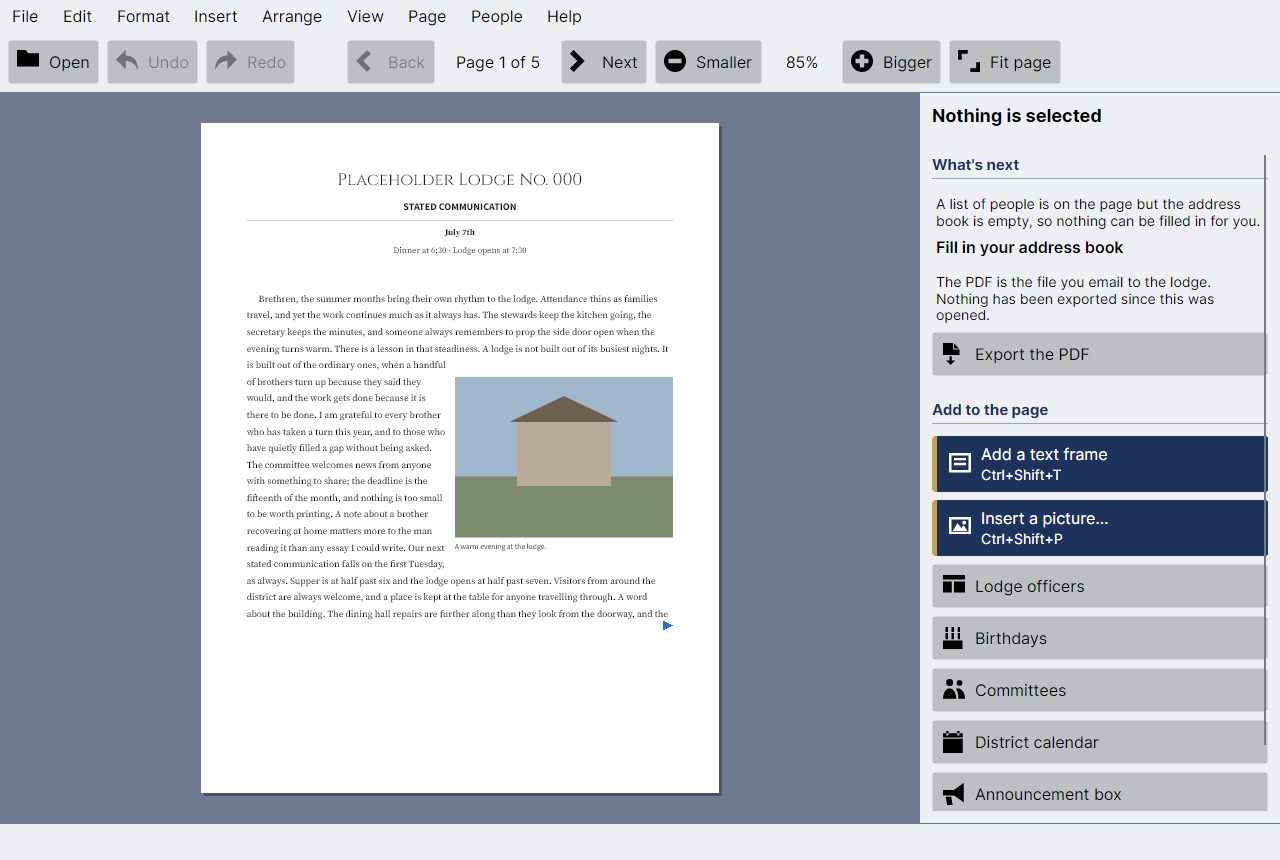
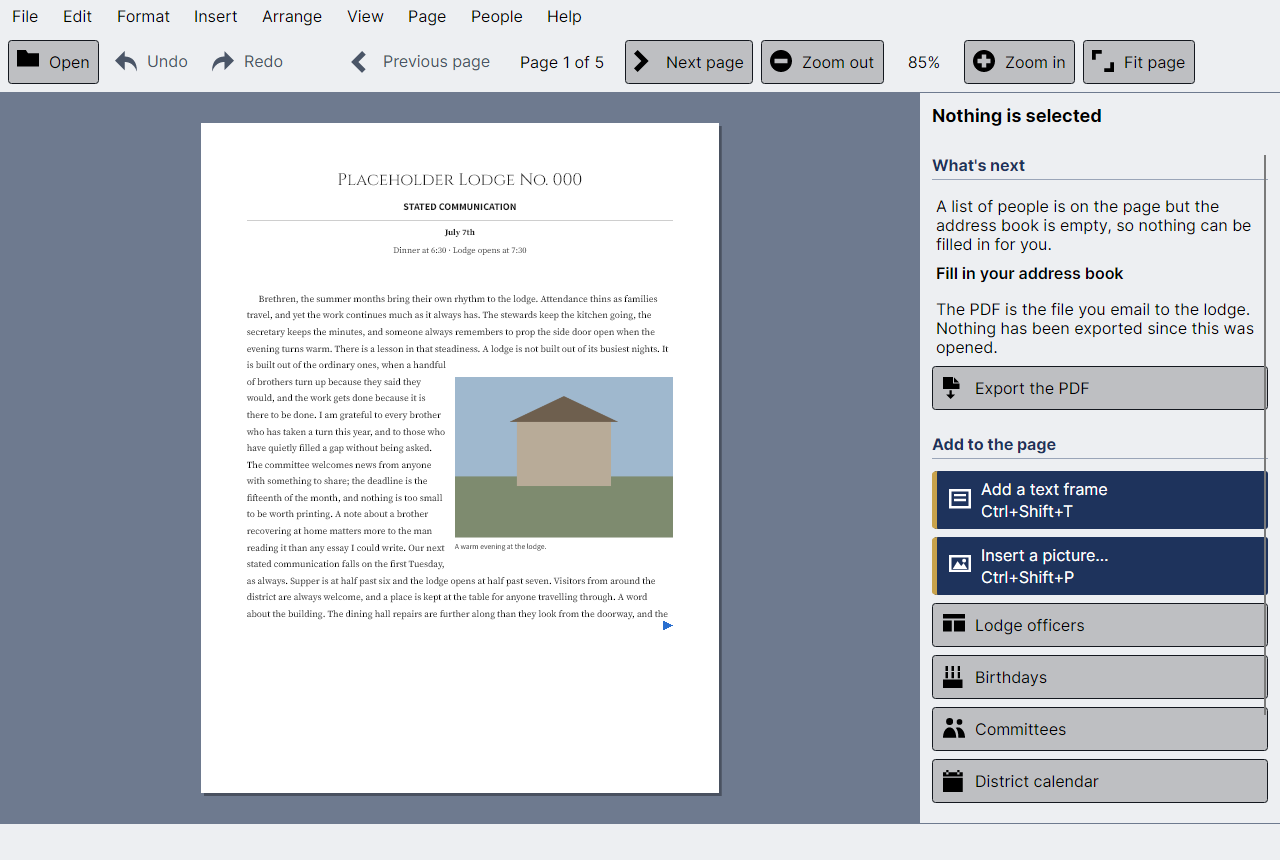
feat(M37): give buttons a border so grey stops meaning two things
Section 14.4's largest visual item, held back through M27 as the owner's
decision rather than a coding one. Decision taken: a border marks what can be
pressed.

Measured from the shipped screenshots rather than assumed. On the toolbar of a
freshly opened newsletter, where Undo, Redo and Previous page are genuinely
disabled, the enabled and disabled buttons had the IDENTICAL fill -- #BEBFC2
for every one of them -- and the only thing separating "you can press this"
from "you cannot" was the label's contrast: 11.42:1 against 2.61:1.

That second number is the sharper problem for this audience. It is not a weak
signal, it is an unreadable one: an elderly user could not make out what the
button they cannot press even says, and the reason it is unavailable lives in
its HelpText, where a sighted user never looks. Meanwhile the action panel's
items -- which by M11 are never disabled, because they explain themselves
instead -- wore the same grey slab. One appearance meant "press me" and "you
cannot" at the same time, in one window.

Enabled buttons now carry a border in Chrome.Foreground, thickness from the
Border.Thickness token so High Contrast steps it up like every other rule.
Disabled ones lose the border AND the fill, sitting flat on the chrome --
removing the fill matters as much, because a dead control with a slab under it
is still competing for attention it has not earned. Measured after: disabled
fill is now the chrome itself, and the disabled label went from 2.61:1 to
[…]

Changed region(s): [[0.7188, 0.1814, 1.0, 0.9674], [0.0625, 0.0302, 0.9375, 0.1209]]

diff --git a/tests/App.HeadlessTests/ActionSurfaceTests.cs b/tests/App.HeadlessTests/ActionSurfaceTests.cs
@@ -2,6 +2,7 @@ using Avalonia.Controls;
 using Avalonia.Headless;
 using Avalonia.LogicalTree;
 using TrestleBoard.App.Actions;
+using TrestleBoard.App.Theme;
 using TrestleBoard.Editing.Actions;
 using Xunit;
 
@@ -264,4 +265,65 @@ public sealed class ActionSurfaceTests
             yield return window.WidgetsForTest!.InsertWidget(0, typeId);
         }
     }
+    /// <summary>
+    /// M37, review §14.4: every button the APP made says whether it can be pressed.
+    ///
+    /// <para>Measured from the shipped screenshots, an enabled toolbar button and a disabled one
+    /// had the identical fill — #BEBFC2 for both — and differed only in label contrast, 11.42:1
+    /// against 2.61:1. Meanwhile the action panel's items, which by M11 are NEVER disabled, looked
+    /// exactly like the disabled ones. "Grey slab" meant "press me" and "you cannot" at once.</para>
+    ///
+    /// <para>The affordance is opted into with <c>Tokens.Action()</c> rather than applied by a bare
+    /// Button selector, because a ScrollBar's repeat buttons and a ComboBox's toggle are Buttons too
+    /// and would take it with them. This test is what makes opting in un-forgettable: a new button
+    /// that carries neither treatment fails here rather than quietly shipping looking dead.</para>
+    ///
+    /// <para><c>TemplatedParent is null</c> is the discriminator. A button the app constructed has
+    /// none; one that Fluent built inside a ScrollBar or ComboBox template has its host.</para>
+    /// </summary>
+    [Fact]
+    public async Task EveryButtonTheAppMadeSaysWhetherItCanBePressed()
+    {
+        await Session.Dispatch(() =>
+        {
+            var window = new MainWindow();
+            window.Show();
+            window.OpenIssueSample();
+            Avalonia.Threading.Dispatcher.UIThread.RunJobs();
+
+            var bare = new List<string>();
+            int checkedCount = 0;
+
+            foreach (Button button in window.GetLogicalDescendants().OfType<Button>())
+            {
+                // Framework internals are not ours to restyle.
+                if (button.TemplatedParent is not null)
+                {
+                    continue;
+                }
+
+                checkedCount++;
+                bool marked = button.Classes.Contains("action")
+                    || button.IsDefault
+                    || ReferenceEquals(button.Theme, window.TryFindResource(Tokens.PrimaryButtonTheme, out object? t) ? t : null);
+
+                if (!marked)
+                {
+                    bare.Add(ActionPanel.LabelOf(button) is { Length: > 0 } label
+                        ? label
+                        : button.Name ?? "(unnamed)");
+                }
+            }
+
+            Assert.True(checkedCount >= 8, $"only {checkedCount} app-made buttons were found");
+            Assert.True(
+                bare.Count == 0,
+                "these buttons carry neither the action nor the primary treatment, so they look "
+                    + "the same whether or not they can be pressed: " + string.Join(", ", bare));
+
+            window.SaveFirstAnswerForTest = MainWindow.SaveFirst.Discard;
+            window.Close();
+        }, TestContext.Current.CancellationToken);
+    }
+
 }

diff --git a/src/TrestleBoard.App/Dialogs/PhotoAdjustWindow.cs b/src/TrestleBoard.App/Dialogs/PhotoAdjustWindow.cs
@@ -4,6 +4,7 @@ using Avalonia.Layout;
 using Avalonia.Media;
 using CoreModel = TrestleBoard.Core.Model;
 using TrestleBoard.Editing;
+using TrestleBoard.App.Theme;
 
 namespace TrestleBoard.App.Dialogs;
 
@@ -91,11 +92,13 @@ public sealed class PhotoAdjustWindow : Window
         // M27: which way it turns, said out loud. "Turn a quarter" left the user to press it and
         // find out, and four presses to undo a wrong guess is four undo steps (review §14.4).
         var turn = new Button { Content = "Turn it right ↻", FontSize = 18, MinHeight = 44, MinWidth = 180 };
+        turn.Action();
         turn.Click += (_, _) => _photos.Rotate(_blockId, 1);
         Avalonia.Automation.AutomationProperties.SetName(
             turn, "Turn the picture a quarter turn to the right, clockwise");
 
         var reset = new Button { Content = "Start over", FontSize = 18, MinHeight = 44, MinWidth = 140 };
+        reset.Action();
         reset.Click += (_, _) =>
         {
             _photos.ResetPhoto(_blockId);
@@ -106,6 +109,7 @@ public sealed class PhotoAdjustWindow : Window
         // M22: re-centring an already-sized crop is a separate step from resizing one — opening it
         // from here, rather than only from the action panel, keeps the two discoverable together.
         var position = new Button { Content = "Position…", FontSize = 18, MinHeight = 44, MinWidth = 140 };
+        position.Action();
         position.Click += async (_, _) =>
         {
             var window = new PositionPhotoWindow(_photos, _blockId);
@@ -133,6 +137,7 @@ public sealed class PhotoAdjustWindow : Window
             MinWidth = 200,
             IsCancel = true,
         };
+        cancel.Action();
         cancel.Click += (_, _) => CancelAndClose();
         Avalonia.Automation.AutomationProperties.SetName(
             cancel, "Cancel, put the picture back as it was before this window opened");

diff --git a/src/TrestleBoard.App/Theme/Tokens.cs b/src/TrestleBoard.App/Theme/Tokens.cs
@@ -68,6 +68,30 @@ internal static class Tokens
     /// every other button on the screen, which is most of what "every button is the same grey slab"
     /// meant.</para>
     /// </summary>
+    /// <summary>The ControlTheme that <see cref="Action{T}"/> applies.</summary>
+    internal const string ActionButtonTheme = "TrestleBoard.ActionButton";
+
+    /// <summary>
+    /// Marks a button as one the APP made, and gives it the affordance that says so (M37).
+    ///
+    /// <para>Enabled it has a border and a full-contrast label; disabled it has neither border nor
+    /// fill. Before this, an enabled toolbar button and a disabled one shared the identical fill
+    /// and differed only in label contrast — and the action panel's items, which are never disabled
+    /// at all, looked like the disabled ones.</para>
+    ///
+    /// <para>Called rather than inferred, because the alternative is a bare <c>Button</c> selector
+    /// that would also restyle the insides of every ScrollBar and ComboBox. What stops it being
+    /// forgotten is not discipline but <c>ActionSurfaceTests</c>, which walks every window and
+    /// fails on a button that has neither this nor <see cref="Primary{T}"/>.</para>
+    /// </summary>
+    internal static T Action<T>(this T button)
+        where T : Avalonia.Controls.Button
+    {
+        ArgumentNullException.ThrowIfNull(button);
+        button.Classes.Add("action");
+        return button;
+    }
+
     internal static T Primary<T>(this T button)
         where T : Avalonia.Controls.Button
     {

diff --git a/src/TrestleBoard.App/MainWindow.axaml.cs b/src/TrestleBoard.App/MainWindow.axaml.cs
@@ -1055,7 +1055,9 @@ public partial class MainWindow : Window
 
         var save = new Button { Content = "Save it", FontSize = 18, MinHeight = 44, MinWidth = 150, IsDefault = true };
         var discard = new Button { Content = "Do not save it", FontSize = 18, MinHeight = 44, MinWidth = 150 };
+        discard.Action();
         var stay = new Button { Content = "Go back", FontSize = 18, MinHeight = 44, MinWidth = 150, IsCancel = true };
+        stay.Action();
 
         save.Click += (_, _) => { answer = SaveFirst.Save; dialog.Close(); };
         discard.Click += (_, _) => { answer = SaveFirst.Discard; dialog.Close(); };
@@ -2713,6 +2715,11 @@ public partial class MainWindow : Window
     {
         foreach (Button button in ToolbarScale.GetLogicalDescendants().OfType<Button>())
         {
+            // M37: the affordance that says "you can press this". Applied in the loop that already
+            // walks the toolbar, so a button added to the XAML cannot miss it — and before the
+            // early-out below, because a button without an icon still needs to look pressable.
+            button.Action();
+
             if (button is not { Tag: string actionId, Content: string label })
             {
                 continue;

diff --git a/src/TrestleBoard.App/Dialogs/PositionPhotoWindow.cs b/src/TrestleBoard.App/Dialogs/PositionPhotoWindow.cs
@@ -123,7 +123,9 @@ public sealed class PositionPhotoWindow : Window
         // "this preview", not bare "Zoom": beside a sentence promising the crop does not change
         // size, an unqualified Zoom button reads as the thing that would change it.
         var zoomIn = new Button { Content = "Show it larger", FontSize = 16, MinHeight = 44, MinWidth = 130 };
+        zoomIn.Action();
         var zoomOut = new Button { Content = "Show it smaller", FontSize = 16, MinHeight = 44, MinWidth = 130 };
+        zoomOut.Action();
         _zoomLabel = new TextBlock { FontSize = 16, VerticalAlignment = VerticalAlignment.Center, MinWidth = 60 };
         zoomIn.Click += (_, _) => StepZoom(+1);
         zoomOut.Click += (_, _) => StepZoom(-1);
@@ -160,6 +162,7 @@ public sealed class PositionPhotoWindow : Window
         AutomationProperties.SetName(apply, "Apply this position");
 
         var cancel = new Button { Content = "Cancel", FontSize = 18, MinHeight = 44, MinWidth = 120, IsCancel = true };
+        cancel.Action();
         cancel.Click += (_, _) => Close();
         AutomationProperties.SetName(cancel, "Cancel, leave the picture where it was");
 

diff --git a/src/TrestleBoard.App/Dialogs/WidgetGridWindow.cs b/src/TrestleBoard.App/Dialogs/WidgetGridWindow.cs
@@ -415,7 +415,10 @@ public sealed class WidgetGridWindow : Window
         var button = new Button { Content = text, FontSize = 20, MinHeight = 44, MinWidth = 160 };
         button.Click += click;
         AutomationProperties.SetName(button, text);
-        return button;
+        // M37: the affordance that says "you can press this". IsDefault buttons take the
+        // primary treatment instead, via the property-qualified selector in Controls.axaml, and
+        // the Style there wins over this class.
+        return button.Action();
     }
     /// <summary>
     /// The same question the step wizard asks, for the same session (M35, review §14.2).
@@ -456,6 +459,7 @@ public sealed class WidgetGridWindow : Window
                 MinHeight = 44,
                 MinWidth = 180,
             };
+            discard.Action();
 
             var confirm = new Window
             {

diff --git a/src/TrestleBoard.App/Dialogs/TextStylesWindow.cs b/src/TrestleBoard.App/Dialogs/TextStylesWindow.cs
@@ -9,6 +9,7 @@ using TrestleBoard.Core.Text;
 using TrestleBoard.Layout.Fonts;
 using TrestleBoard.Rendering;
 using TextBlock = Avalonia.Controls.TextBlock;
+using TrestleBoard.App.Theme;
 
 namespace TrestleBoard.App.Dialogs;
 
@@ -409,6 +410,7 @@ public sealed class TextStylesWindow : Window
     private static Button SmallButton(string text)
     {
         var button = new Button { Content = text, FontSize = 18, MinHeight = 44, MinWidth = 140 };
+        button.Action();
         AutomationProperties.SetName(button, text);
         return button;
     }
@@ -439,6 +441,7 @@ public sealed class TextStylesWindow : Window
             MinWidth = 140,
             IsCancel = true,
         };
+        cancel.Action();
         cancel.Click += (_, _) => { _cancelled = true; Close(); };
         AutomationProperties.SetName(cancel, "Cancel — change nothing");
 

diff --git a/src/TrestleBoard.App/Dialogs/StartDialog.cs b/src/TrestleBoard.App/Dialogs/StartDialog.cs
@@ -153,6 +153,16 @@ public sealed class StartDialog : Window
             },
         };
 
+        // M37. These three tiles are what the review pointed at first: on the start screen, "Open a
+        // newsletter" and "Start from a template" were flat grey slabs beside the navy primary one,
+        // and read as disabled — the very first thing a new user sees, offering them two choices
+        // that look like they are not available. The primary tile has IsDefault and takes its own
+        // treatment; the other two take the border.
+        if (!primary)
+        {
+            button.Action();
+        }
+
         // The heading alone is the accessible name; the detail is help text, so a screen reader
         // announces "Start from last month, button" rather than a paragraph.
         AutomationProperties.SetName(button, heading);

diff --git a/src/TrestleBoard.App/Dialogs/FindWindow.cs b/src/TrestleBoard.App/Dialogs/FindWindow.cs
@@ -114,6 +114,7 @@ public sealed class FindWindow : Window
             MinWidth = 120,
             IsCancel = true,
         };
+        close.Action();
         Avalonia.Automation.AutomationProperties.SetName(close, "Close the find window");
         close.Click += (_, _) => Close();
 
@@ -244,6 +245,9 @@ public sealed class FindWindow : Window
         };
         Avalonia.Automation.AutomationProperties.SetName(button, label);
         button.Click += (_, _) => onClick();
-        return button;
+        // M37: the affordance that says "you can press this". IsDefault buttons take the
+        // primary treatment instead, via the property-qualified selector in Controls.axaml, and
+        // the Style there wins over this class.
+        return button.Action();
     }
 }

diff --git a/src/TrestleBoard.App/Dialogs/WizardWindow.cs b/src/TrestleBoard.App/Dialogs/WizardWindow.cs
@@ -254,6 +254,7 @@ public sealed class WizardWindow : Window
                 MinHeight = 44,
                 MinWidth = 180,
             };
+            discard.Action();
 
             var confirm = new Window
             {
@@ -917,6 +918,9 @@ public sealed class WizardWindow : Window
         };
         button.Click += click;
         AutomationProperties.SetName(button, text);
-        return button;
+        // M37: the affordance that says "you can press this". IsDefault buttons take the
+        // primary treatment instead, via the property-qualified selector in Controls.axaml, and
+        // the Style there wins over this class.
+        return button.Action();
     }
 }

diff --git a/src/TrestleBoard.App/Actions/ActionPanel.cs b/src/TrestleBoard.App/Actions/ActionPanel.cs
@@ -241,9 +241,16 @@ internal sealed class ActionPanel : Border
             HorizontalContentAlignment = HorizontalAlignment.Left,
         };
 
+        // Primary carries its own treatment; everything else takes the action affordance. Panel
+        // items are never disabled (M11) — they explain instead — so this is the case the review
+        // named most directly: they looked exactly like the toolbar's dead buttons.
         if (isPrimary)
         {
             button.Primary();
+        }
+        else
+        {
+            button.Action();
         }
 
         return button;

diff --git a/src/TrestleBoard.App/Dialogs/RosterImportWindow.cs b/src/TrestleBoard.App/Dialogs/RosterImportWindow.cs
@@ -6,6 +6,7 @@ using Avalonia.Platform.Storage;
 using TrestleBoard.Roster;
 using TrestleBoard.Roster.Import;
 using TrestleBoard.Roster.Tables;
+using TrestleBoard.App.Theme;
 
 namespace TrestleBoard.App.Dialogs;
 
@@ -124,6 +125,7 @@ public sealed class RosterImportWindow : Window
     private static Button Big(string content, string automationName)
     {
         var button = new Button { Content = content, FontSize = 20, MinHeight = 44, MinWidth = 140 };
+        button.Action();
         AutomationProperties.SetName(button, automationName);
         return button;
     }
